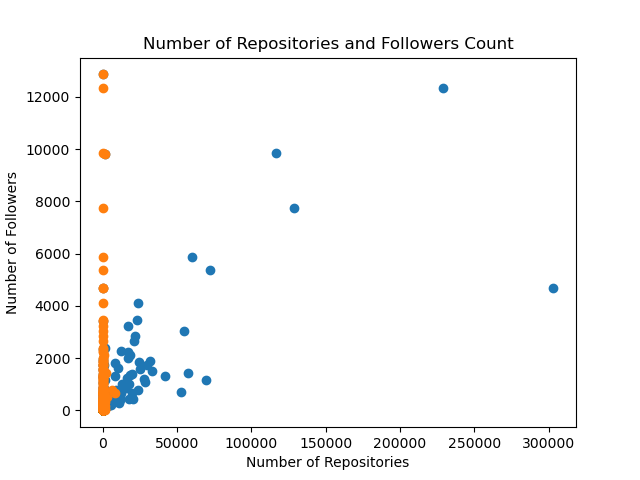
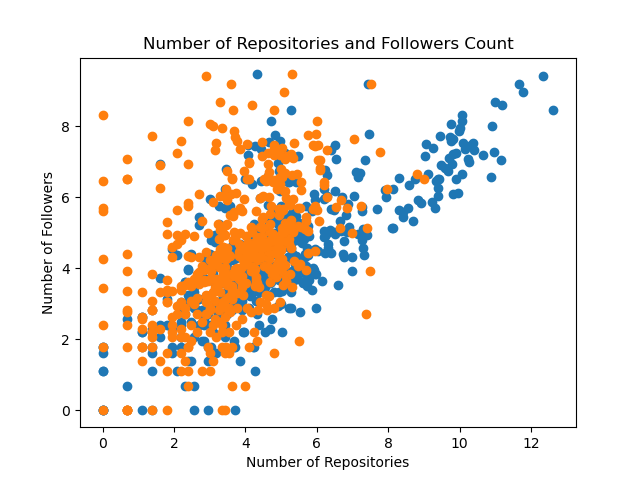
New files created; others updated

diff --git a/summary_and_plots.py b/summary_and_plots.py
@@ -18,14 +18,18 @@ followers = sub_dataset['Number of Followers']
 following = sub_dataset['Following']
 public_repo = sub_dataset['Public Repository Count']
 
+logfollowers = numpy.log(followers)
+logfollowing = numpy.log(following)
+logpublic_repo = numpy.log(public_repo)
+
 # Plot
-plt.scatter(following, followers)
+plt.scatter(logfollowing, logfollowers)
 plt.title("Following Count and Followers Count")
 plt.xlabel("Number of Following")
 plt.ylabel("Number of Followers")
 plt.savefig('data_files/figure1.png')
 
-plt.scatter(public_repo, followers)
+plt.scatter(logpublic_repo, logfollowers)
 plt.title("Number of Repositories and Followers Count")
 plt.xlabel("Number of Repositories")
 plt.ylabel("Number of Followers")
